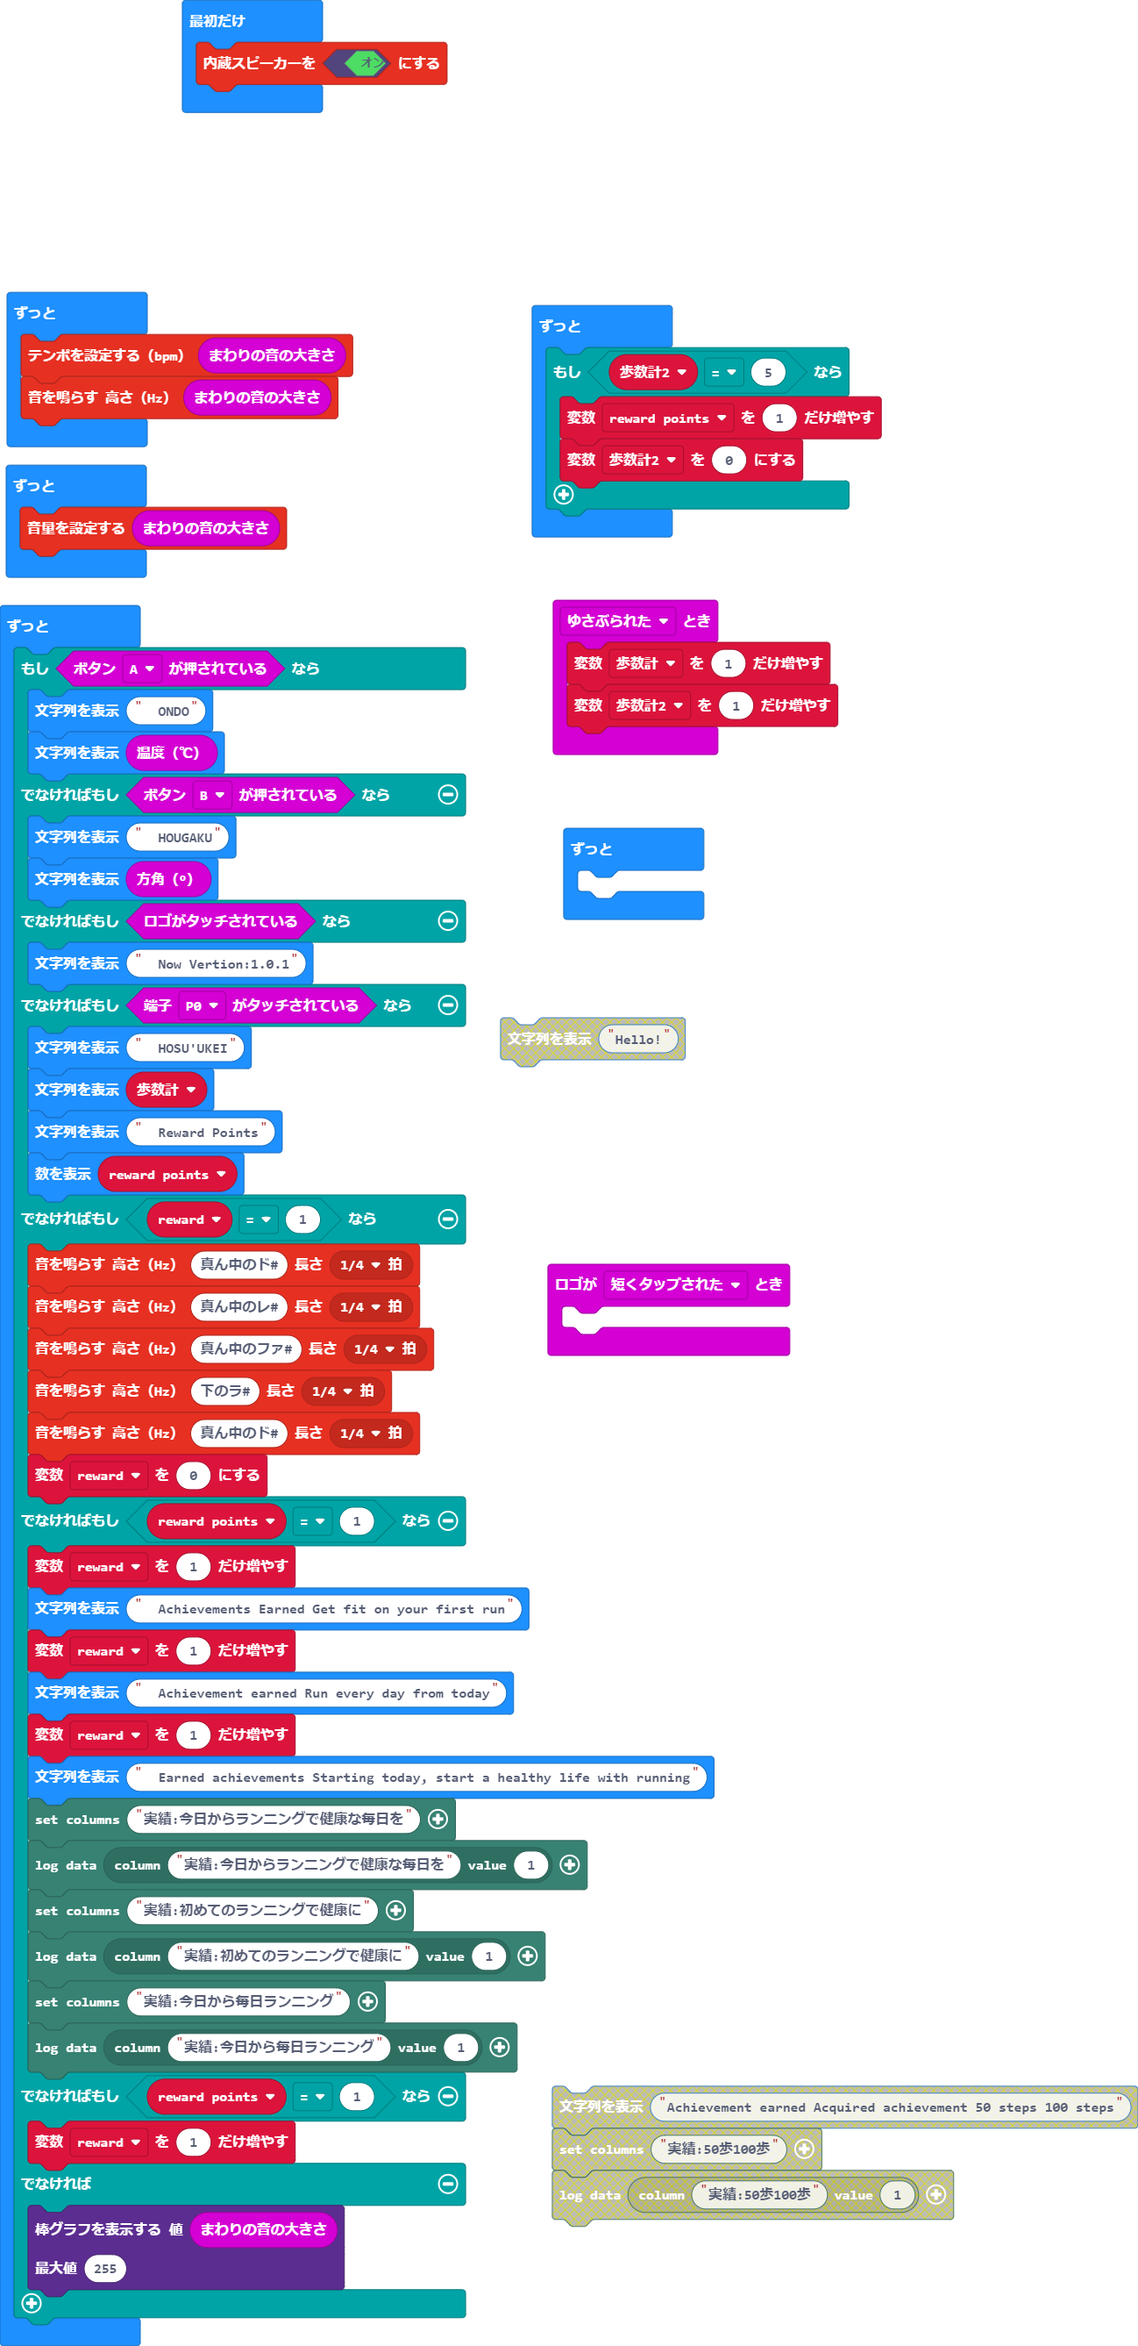
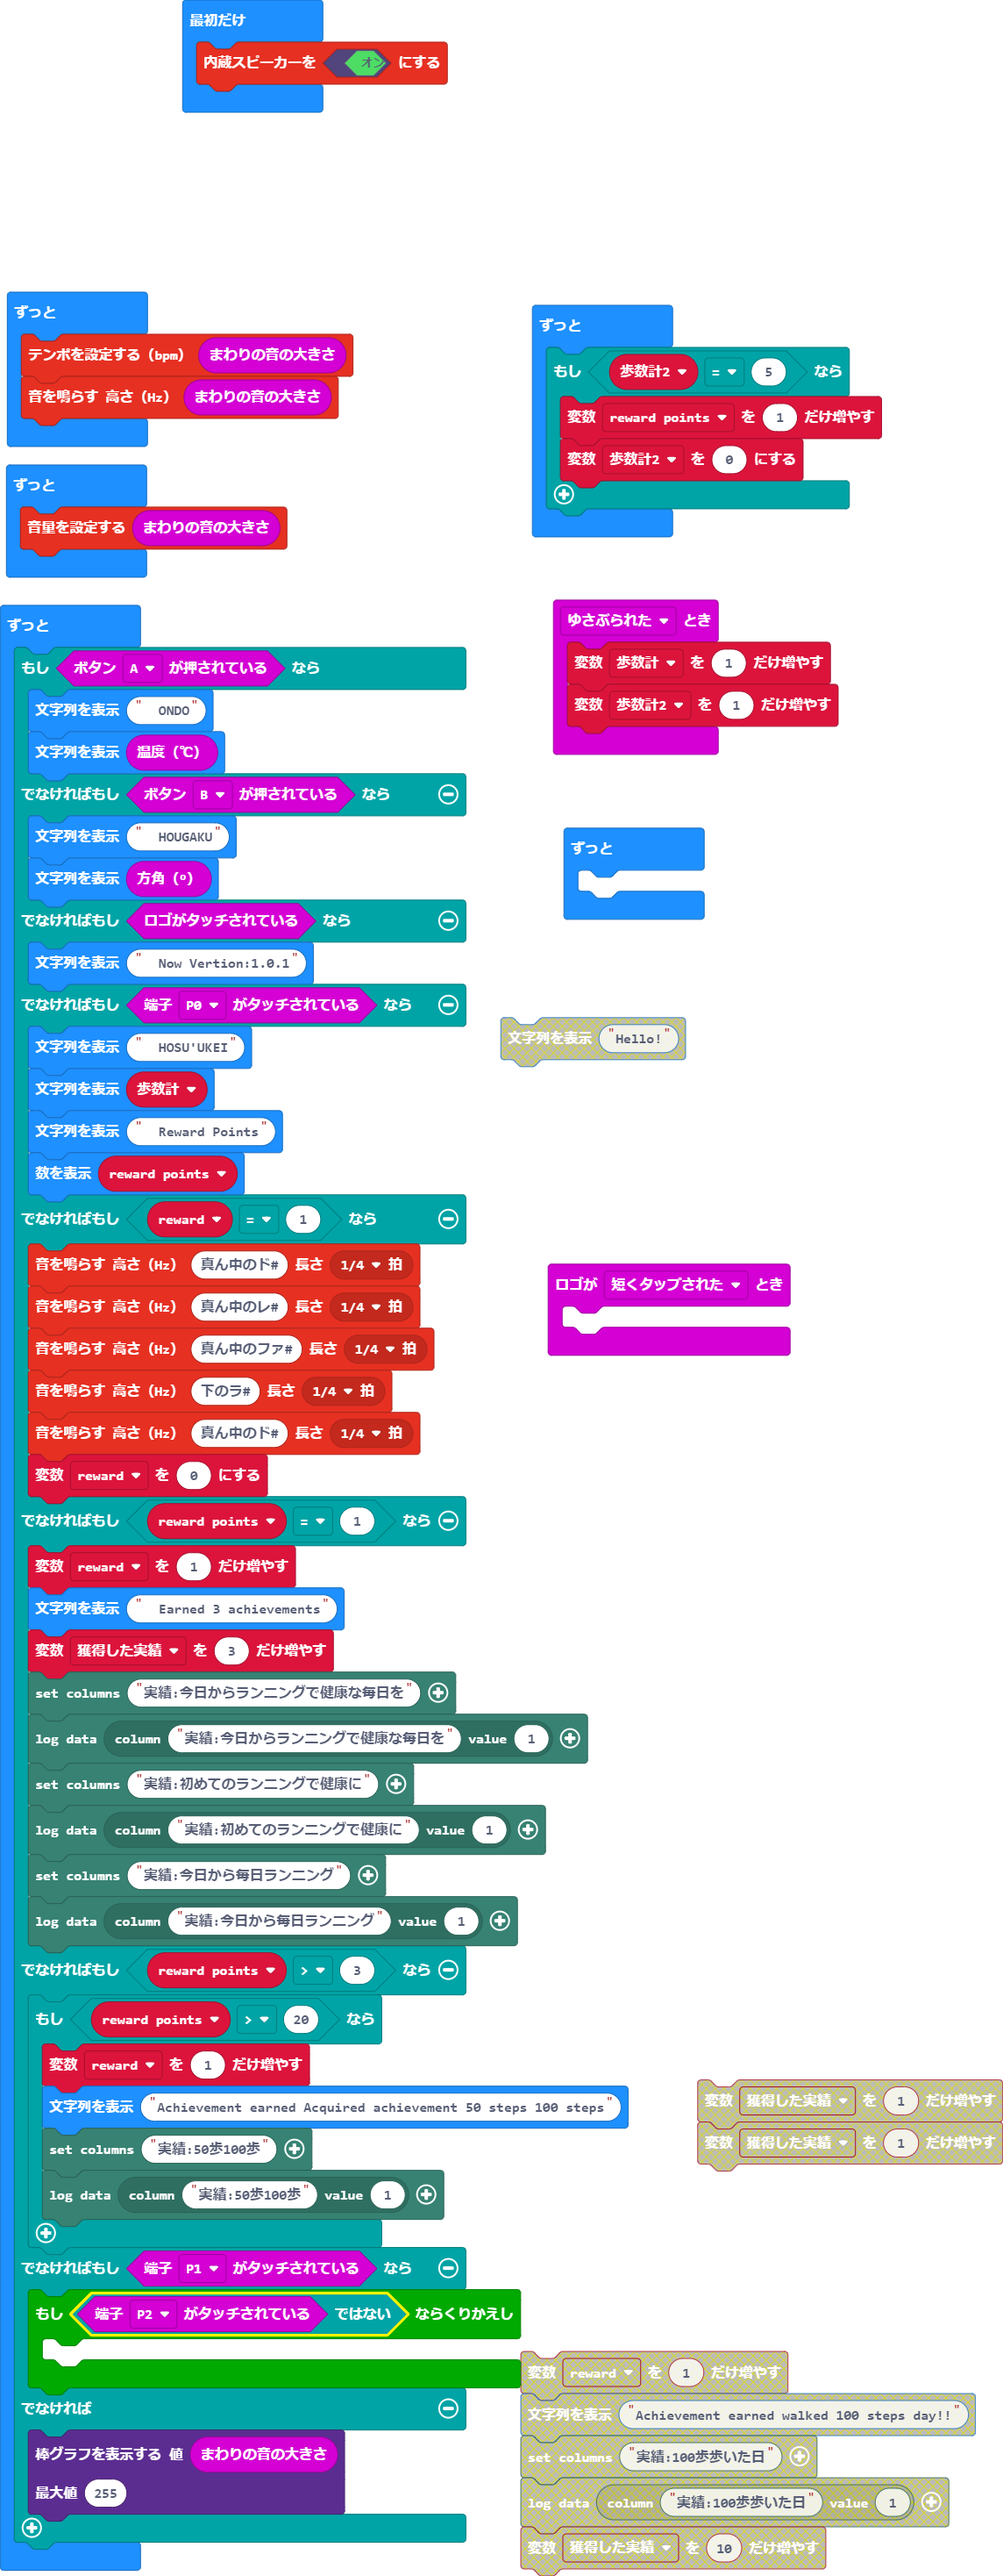
更新 main.blocks, main.ts

diff --git a/main.ts b/main.ts
@@ -5,6 +5,7 @@ input.onGesture(Gesture.Shake, function () {
 input.onLogoEvent(TouchButtonEvent.Pressed, function () {
 	
 })
+let 獲得した実績 = 0
 let reward = 0
 let reward_points = 0
 let 歩数計2 = 0
@@ -46,19 +47,25 @@ basic.forever(function () {
         reward = 0
     } else if (reward_points == 1) {
         reward += 1
-        basic.showString("  Achievements Earned Get fit on your first run")
-        reward += 1
-        basic.showString("  Achievement earned Run every day from today")
-        reward += 1
-        basic.showString("  Earned achievements Starting today, start a healthy life with running")
+        basic.showString("  Earned 3 achievements")
+        獲得した実績 += 3
         datalogger.setColumnTitles("実績:今日からランニングで健康な毎日を")
         datalogger.log(datalogger.createCV("実績:今日からランニングで健康な毎日を", 1))
         datalogger.setColumnTitles("実績:初めてのランニングで健康に")
         datalogger.log(datalogger.createCV("実績:初めてのランニングで健康に", 1))
         datalogger.setColumnTitles("実績:今日から毎日ランニング")
         datalogger.log(datalogger.createCV("実績:今日から毎日ランニング", 1))
-    } else if (reward_points == 1) {
-        reward += 1
+    } else if (reward_points > 3) {
+        if (reward_points > 20) {
+            reward += 1
+            basic.showString("Achievement earned Acquired achievement 50 steps 100 steps")
+            datalogger.setColumnTitles("実績:50歩100歩")
+            datalogger.log(datalogger.createCV("実績:50歩100歩", 1))
+        }
+    } else if (input.pinIsPressed(TouchPin.P1)) {
+        while (!(input.pinIsPressed(TouchPin.P2))) {
+        	
+        }
     } else {
         led.plotBarGraph(
         input.soundLevel(),
